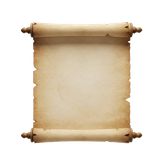
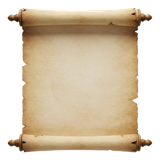
Lot 212 — la bourse descend (50, le montant dessus en jaune pale), deux Tally en haut, pockets rapproches de 4, l'anneau du 209 sur les portes
Eric, 16/09 apres-midi, en direct :
  « j'ai changé l'image de la bourse » · « elle descend en bas » · « pocket/weapon se
  rapprochent médialement de 4 blg » · « bien centrée dans l'espace qu'elle a » · « fais
  rentrer l'image dans un carré de 50 × 50, la zone de texte 40 × 40 suffit » · « couleur du
  texte jaune très proche du blanc » · « il y a 2 tally — un group tally (optionnel)
  n'apparaît que quand un des joueurs ou DM envoie vers le party inventory » · « tally :
  l'image bien, la zone cliquable centrée dessus, avec des espaces homogènes tout autour » ·
  « mets les boutons classiques (companions send backpack wares) aux nouvelles normes. Send
  a un liseré vert (une action avec conséquence), les autres liseré bleu (navigation) ».

LE PLAN D'ABORD (R_gen.py, jamais une cote retapée) :
  · POCKET/WEAPON 1 · 2 : 57 → 61, 231 → 227 (toujours symétriques autour de 187,5)
  · PURSE 50 × 50 à x 317,5 / y 231 : centrée entre le bord droit de POCKET/WEAPON 2 (314) et
    la marge (371) ; 50 ≥ --touch, donc le dessin EST la cible, aucun bord transparent
  · MONTANT 40 × 40 à 322,5 / 236, `dans: "PURSE"` : le garde des dessins vérifie l'INCLUSION
    au lieu de crier au chevauchement ; « 99999 » (31,99) puis « gp » sur deux lignes
  · TALLY 44 × 44 à 327 / 66 (la marge, comme la cible du `?`), PARTY TALLY à 279 / 66,
    `creation: false` (même mécanique que les lunes : coté, dessiné, pas posé à la création)
[…]

diff --git a/ui/builder/shell.css b/ui/builder/shell.css
@@ -9319,9 +9319,9 @@ button.background-impose-nom { border: none; background: none; padding: 0; margi
 .gear-bouton {
   display: flex; flex-direction: column; align-items: center; justify-content: center;
   padding: 0; margin: 0;
-  /* bordure NULLE par défaut : quand dessin = cible (Purse 44 × 44), aucun écart ;
-     la feuille des cotes pose `border-width` là où une cible dépasse le dessin
-     (Tally). Sans ce 0, le navigateur mettait ses 3 px « medium ». */
+  /* bordure NULLE par défaut : quand dessin = cible (Tally 44 × 44, bourse 50 × 50),
+     aucun écart ; la feuille des cotes pose `border-width` là où une cible
+     dépasserait le dessin. Sans ce 0, le navigateur mettait ses 3 px « medium ». */
   border: 0 solid transparent; border-radius: 0;
   background: transparent no-repeat center / contain; background-clip: padding-box;
   background-origin: padding-box;
@@ -9330,13 +9330,15 @@ button.background-impose-nom { border: none; background: none; padding: 0; margi
   cursor: pointer;
 }
 .gear-bouton:disabled { opacity: .4; cursor: default; }
-/* le montant seul sur la bourse (Eric, 16/09) — T2/600 : « 999 gp » demande 41,05
-   dans 44 (la fiche du plan) ; au-delà de trois chiffres, la cote est à Eric */
-/* le montant de la bourse, SOUS le bouton, sur UNE ligne (Eric, 16/09, « b » puis
-   « en dessous sur une ligne oui ») : un voyant qu'on lit — T1/600, centré */
+/* le montant de la bourse, SUR l'image, dans sa zone de 40 × 40 (Eric, 16/09 soir :
+   « la zone de texte 40 × 40 suffit », « couleur du texte jaune très proche du
+   blanc ») : un voyant qu'on lit — T1/600, centré dans les deux sens, deux lignes
+   possibles (« 99999 » puis « gp », le plan les a mesurées). L'encre est FIXE
+   comme celle des astres : la bourse ne bascule pas avec le thème. */
 .gear-montant {
-  text-align: center; color: var(--text); font-size: var(--t1); font-weight: 600;
-  line-height: 1; white-space: nowrap; pointer-events: none;
+  display: flex; align-items: center; justify-content: center; text-align: center;
+  color: var(--bourse-encre); font-size: var(--t1); font-weight: 600;
+  line-height: 1.2; pointer-events: none;
 }
 /* le Tally EST le parchemin d'Eric (déposé le 15/09) ; le halo s'allume dès la
    première ligne, s'éteint vidé */
@@ -9344,13 +9346,9 @@ button.background-impose-nom { border: none; background: none; padding: 0; margi
 .gear-bouton[data-organe="tally"]:not([data-compte="0"]) {
   box-shadow: 0 0 var(--halo-epais) var(--halo-fin) var(--spy-halo);
 }
-/* la bourse d'Eric (déposée le 16/09) : le mot et le montant se posent dessus */
-.gear-bouton[data-organe="purse"] {
-  background-image: var(--icone-bourse);
-  /* Eric, 16/09 : « le montant en gp en blanc bien centré sur la bourse, mets Purse
-     au-dessus en blanc aussi » — l'encre fixe de la lune, elle ne suit pas le thème */
-  color: var(--astre-encre-lune);
-}
+/* la bourse d'Eric (la seconde, déposée le 16/09 au soir — vue de dessus, les
+   pièces au centre) : l'image est le bouton ; le montant est le voyant posé dessus */
+.gear-bouton[data-organe="purse"] { background-image: var(--icone-bourse); }
 
 /* — LE DROPDOWN `Send to` : l'organe du §8 (`.pipeline-dropdown`), au cran T2 — */
 .gear-send-to { padding-inline: var(--sp-8); font-size: var(--t2); text-align: center; }
@@ -9369,9 +9367,14 @@ button.background-impose-nom { border: none; background: none; padding: 0; margi
      le dit (mesuré : 16,64 de haut sans lui) */
   min-height: var(--touch);
   font-size: var(--bouton-cran-serre); font-weight: 600;
-  /* naviguer = bleu (les trois verbes de la rangée, §6) */
+  /* naviguer = bleu (les trois verbes de la rangée, §6). Depuis le 209, ce jeton
+     ne peint plus le corps (graphite pour tous) mais l'ANNEAU du liseré. */
   --bouton-fond: var(--info);
 }
+/* Eric, 16/09 : « Send a un liseré vert (ça a une action avec conséquence), les
+   autres sont juste de la navigation donc liseré bleu ». Companions compris, bien
+   que `disabled` : Eric l'a nommé dans les bleus. */
+.gear-porte[data-porte="send"] { --bouton-fond: var(--positive); }
 /* ⚖ COMPANIONS — le sur-mesure du plan : T1/600, rembourrage --sp-4 (« Companions »
    demande 60,97 dans 69 ; à T2 il fait 73,17 dans 61 et sort — Eric, 16/09 :
    « companions centré ! »). ⚠ (0,3,1), à égalité avec le plancher des gabarits

diff --git a/ui/builder/tokens.css b/ui/builder/tokens.css
@@ -911,6 +911,9 @@
      de nuit, le croissant sombre des deux côtés. */
   --astre-encre-soleil: #241a06;
   --astre-encre-lune: #f4f3f8;
+  /* LOT 212 — l'encre du montant sur la bourse (Eric, 16/09 : « jaune très proche
+     du blanc ») : fixe elle aussi, l'image ne suit pas le thème. */
+  --bourse-encre: #fff8dc;
 
   --astre-soleil: url("./assets/belt/soleil.webp?v=633");
   --astre-croissant: url("./assets/belt/croissant.webp?v=633");
